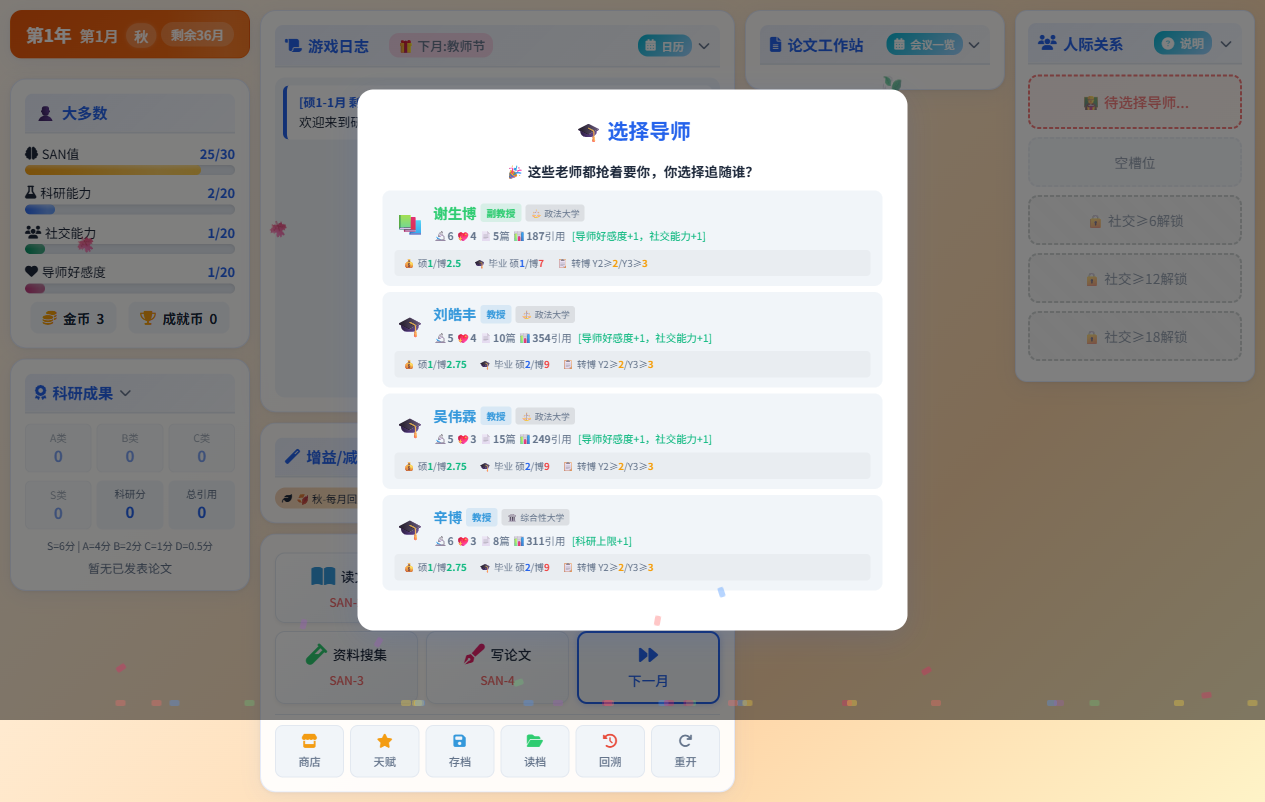
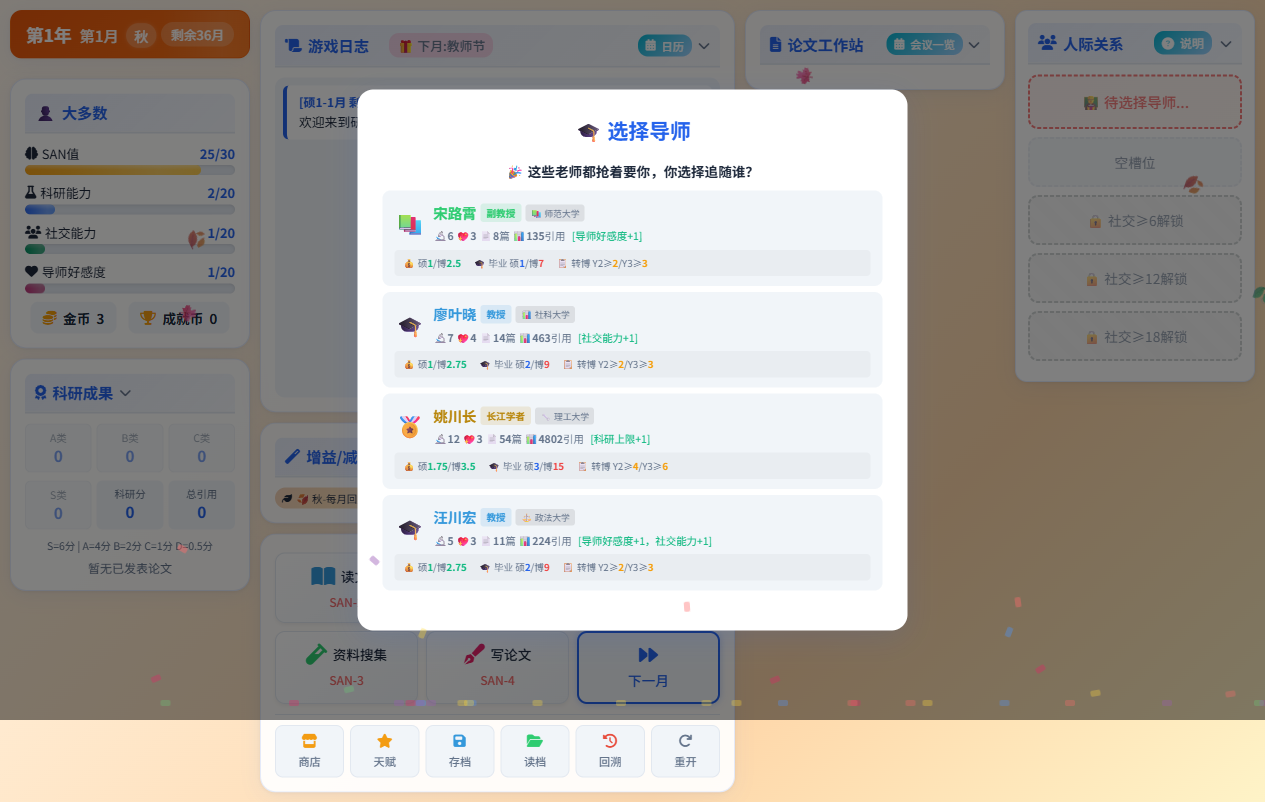
fix: 修复getConferenceImpactFactor调用错误

diff --git a/js/features/papers.js b/js/features/papers.js
@@ -110,7 +110,7 @@
 			const confInfo = getConferenceInfo(month, grade, gameState.year);
 			
 			// 计算影响因子
-			const impactFactor = getConferenceImpactFactor({ month: month }, grade);
+			const impactFactor = (window.getConferenceImpactFactor || getConferenceImpactFactor)({ month: month }, grade);
 			
 			// 计算中稿均分
 			let avgAcceptedScore = '-';
